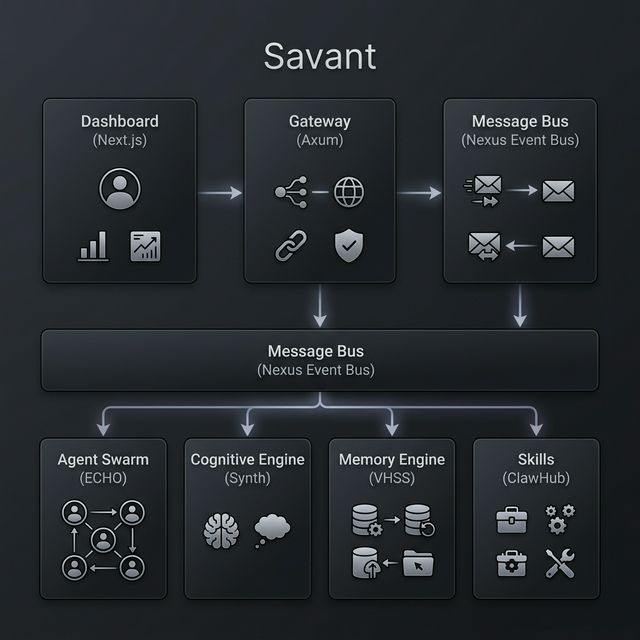
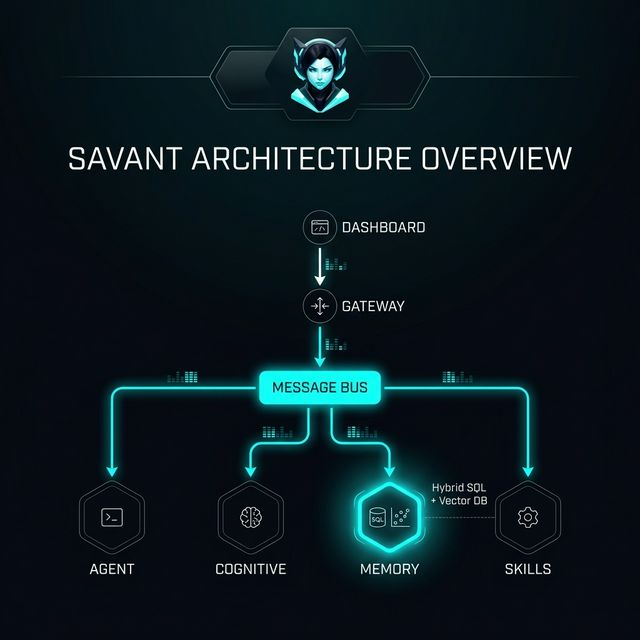
Savant v1.5.0: Visual Mastery - Branded Architecture & Memory Substrate

diff --git a/README.md b/README.md
@@ -29,6 +29,7 @@ Savant is an autonomous agent swarm orchestrator with **mandatory security scann
 - **Config Auto-Reload** — Live configuration updates via file watcher
 
 ---
+
 <div align="center">
 
 ## Architecture
@@ -36,6 +37,25 @@ Savant is an autonomous agent swarm orchestrator with **mandatory security scann
 <img src="img/architecture.png" alt="Savant Architecture v1.5.0" width="850" />
 
 </div>
+
+---
+
+<div align="center">
+
+## Distributed Memory Substrate
+
+<img src="img/memory_engine.png" alt="Savant Hybrid Memory Engine" width="850" />
+
+</div>
+
+Savant utilizes an OMEGA-grade **Hybrid Memory Engine** that unifies three distinct data layers into a single, high-performance substrate for swarm-wide memory sharing at scale:
+
+- **Relational SQL Layer (SQLite WAL)**: Handles structured metadata, agent relationships, and transactional mission logs with ACID compliance.
+- **Unstructured LSM Layer (Fjall)**: A high-throughput Log-Structured Merge-tree for rapid ingestion of raw telemetry and internal agent reflections.
+- **Spatial Vector Layer (rkyv)**: Ultra-fast, zero-copy serialization of vector embeddings for real-time semantic search and long-term memory consolidation.
+
+**Swarm-Wide Sharing**: Every agent in the swarm shares a unified memory bus, allowing for cross-agent learning, collective intelligence synthesis, and zero-latency context inheritance.
+
 ---
 
 ## Security Model
